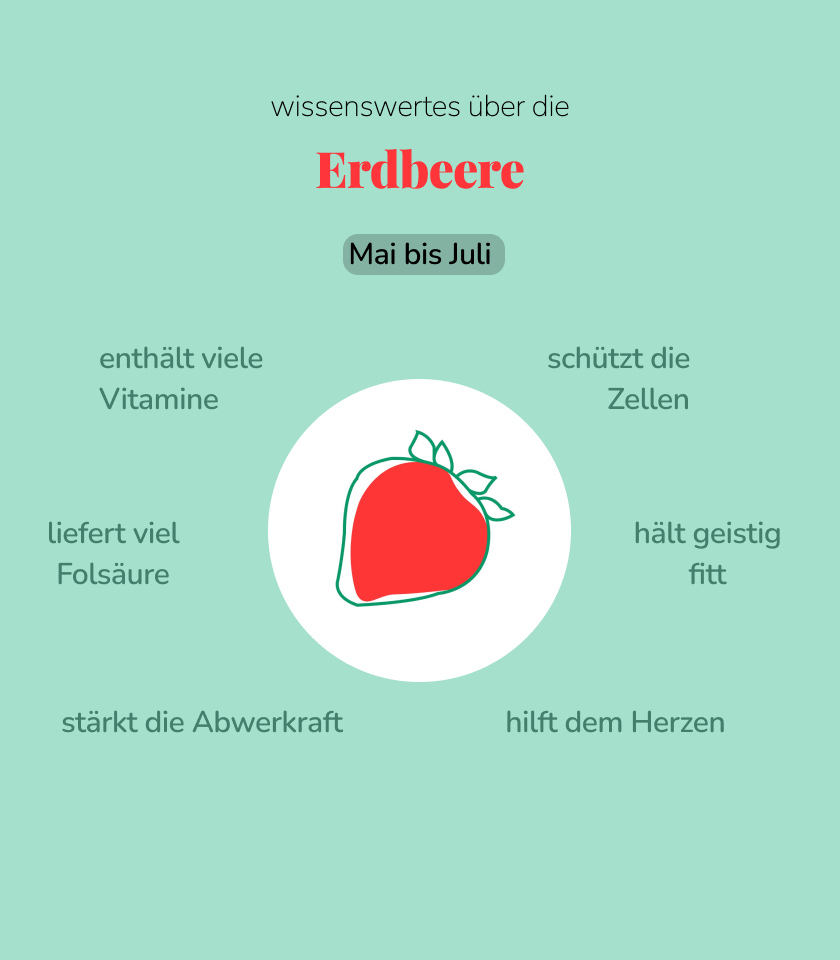
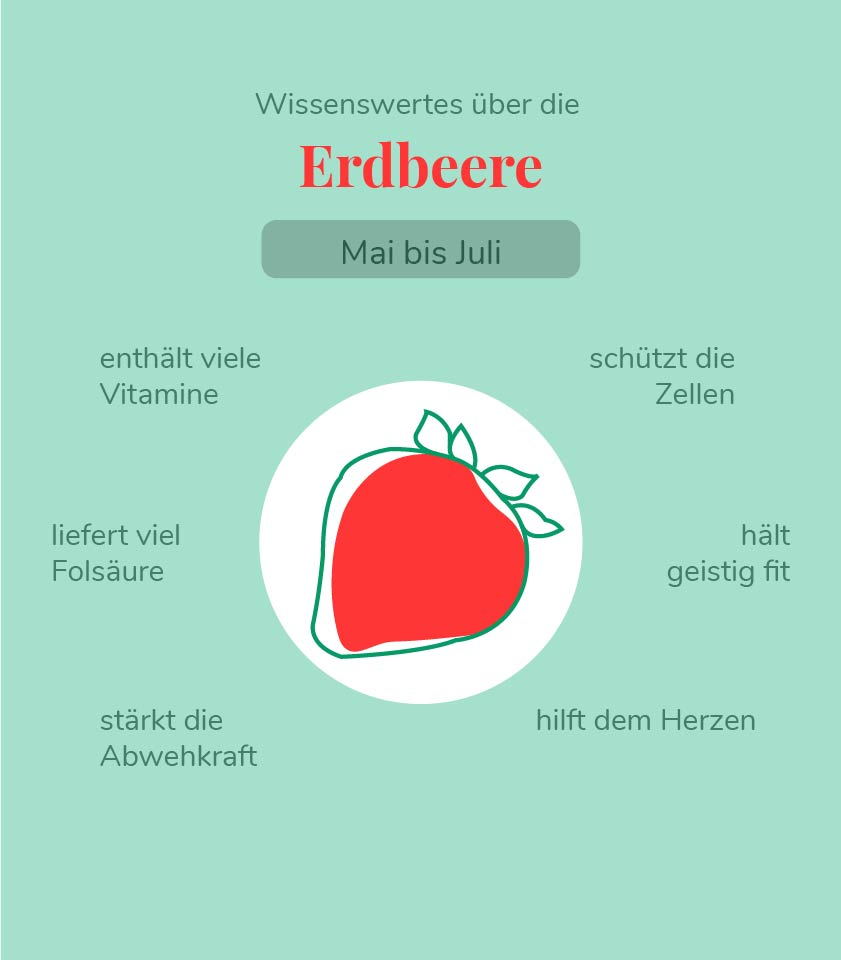
Infografiken und logischere CarbonEmission

diff --git a/src/data/fruites.js b/src/data/fruites.js
@@ -76,25 +76,24 @@ let fruites = [
 			months: [7, 8, 9],
 		},
 		carbonEmissionPerMonthPerKG: {
-			January: 80,
-			February: 80,
+			January: 90,
+			February: 90,
 			March: 80,
-			April: 80,
-			May: 80,
-			June: 80,
-			July: 60,
-			August: 50,
-			September: 50,
-			October: 80,
+			April: 75,
+			May: 60,
+			June: 30,
+			July: 30,
+			August: 40,
+			September: 70,
+			October: 75,
 			November: 80,
-			December: 80,
+			December: 90,
 		},
 	},
 	{
 		name: "Karotten",
 		description: "",
 		image: "karotten.jpg",
-		infographic: "InfografikKarotte.jpg",
 		color: "yellow",
 		infoGraphic: "Info_Karotte.jpg",
 
@@ -105,25 +104,24 @@ let fruites = [
 		carbonEmissionPerMonthPerKG: {
 			January: 80,
 			February: 80,
-			March: 80,
-			April: 80,
-			May: 80,
-			June: 80,
-			July: 60,
-			August: 50,
-			September: 50,
-			October: 80,
-			November: 80,
-			December: 80,
+			March: 75,
+			April: 60,
+			May: 50,
+			June: 30,
+			July: 20,
+			August: 20,
+			September: 30,
+			October: 30,
+			November: 60,
+			December: 75,
 		},
 	},
 	{
 		name: "Paprika",
 		description: "",
 		image: "paprika.jpg",
-		infographic: "#",
 		color: "red",
-		infoGraphic: "#",
+		infoGraphic: "Info_Paprika.jpg",
 
 		inSeason: {
 			season: "Sommer",
@@ -131,105 +129,101 @@ let fruites = [
 		},
 		carbonEmissionPerMonthPerKG: {
 			January: 80,
-			February: 80,
+			February: 90,
 			March: 80,
-			April: 80,
-			May: 80,
-			June: 80,
-			July: 60,
-			August: 50,
-			September: 50,
-			October: 80,
-			November: 80,
-			December: 80,
+			April: 75,
+			May: 70,
+			June: 60,
+			July: 35,
+			August: 20,
+			September: 20,
+			October: 30,
+			November: 55,
+			December: 70,
 		},
 	},
 	{
 		name: "Rosenkohl",
 		description: "",
 		image: "Rosenkohl.jpg",
-		infographic: "#",
 		color: "green",
-		infoGraphic: "#",
+		infoGraphic: "Info_Rosenkohl.jpg",
 
 		inSeason: {
 			season: "Autumn",
 			months: [10, 11],
 		},
 		carbonEmissionPerMonthPerKG: {
-			January: 100,
-			February: 100,
-			March: 100,
-			April: 100,
-			May: 100,
-			June: 100,
-			July: 100,
-			August: 100,
-			September: 80,
-			October: 30,
+			January: 20,
+			February: 30,
+			March: 35,
+			April: 50,
+			May: 70,
+			June: 75,
+			July: 90,
+			August: 80,
+			September: 60,
+			October: 35,
 			November: 30,
-			December: 80,
+			December: 20,
 		},
 	},
 	{
 		name: "Quitte",
 		description: "",
 		image: "quitten.jpg",
-		infographic:"#",
 		color: "green",
-		infoGraphic: "#",
+		infoGraphic: "Info_Quitte.jpg",
 
 		inSeason: {
 			season: "Autumn",
 			months: [10, 11],
 		},
 		carbonEmissionPerMonthPerKG: {
-			January: 100,
+			January: 80,
 			February: 100,
-			March: 100,
-			April: 100,
-			May: 100,
-			June: 100,
-			July: 100,
-			August: 100,
-			September: 80,
-			October: 30,
+			March: 90,
+			April: 85,
+			May: 85,
+			June: 75,
+			July: 70,
+			August: 40,
+			September: 20,
+			October: 20,
 			November: 30,
-			December: 80,
+			December: 60,
 		},
 	},
 	{
 		name: "Lauch",
 		description: "",
 		image: "lauch.jpg",
-		infographic:"#",
 		color: "green",
-		infoGraphic: "#",
+		infoGraphic: "Info_Lauch.jpg",
 
 		inSeason: {
 			season: "Autumn",
 			months: [8, 9, 10],
 		},
 		carbonEmissionPerMonthPerKG: {
-			January: 80,
-			February: 80,
-			March: 80,
-			April: 80,
-			May: 80,
-			June: 80,
-			July: 80,
+			January: 40,
+			February: 35,
+			March: 25,
+			April: 30,
+			May: 40,
+			June: 35,
+			July: 35,
 			August: 40,
-			September: 40,
-			October: 60,
-			November: 90,
-			December: 100,
+			September: 25,
+			October: 35,
+			November: 30,
+			December: 40,
 		},
 	},
 	{
 		name: "Erdbeere",
 		description: "",
 		image: "erdbeere.jpg",
-		infographic:"InfografikErdbeere.jpg",
 		color: "red",
 		infoGraphic: "Info_Erdbeere.jpg",
 		inSeason: {
@@ -255,27 +249,26 @@ let fruites = [
 		name: "champignon",
 		description: "",
 		image: "champion.jpg",
-		infographic:"#",
 		color: "green",
-		infoGraphic: "#",
+		infoGraphic: "Info_Champignon.jpg",
 
 		inSeason: {
 			season: "Spring",
 			months: [5, 6, 7],
 		},
 		carbonEmissionPerMonthPerKG: {
-			January: 60,
-			February: 50,
-			March: 50,
+			January: 35,
+			February: 40,
+			March: 25,
 			April: 30,
 			May: 20,
 			June: 20,
 			July: 20,
-			August: 70,
-			September: 100,
-			October: 100,
-			November: 90,
-			December: 70,
+			August: 25,
+			September: 40,
+			October: 30,
+			November: 35,
+			December: 40,
 		},
 	},
 ];
